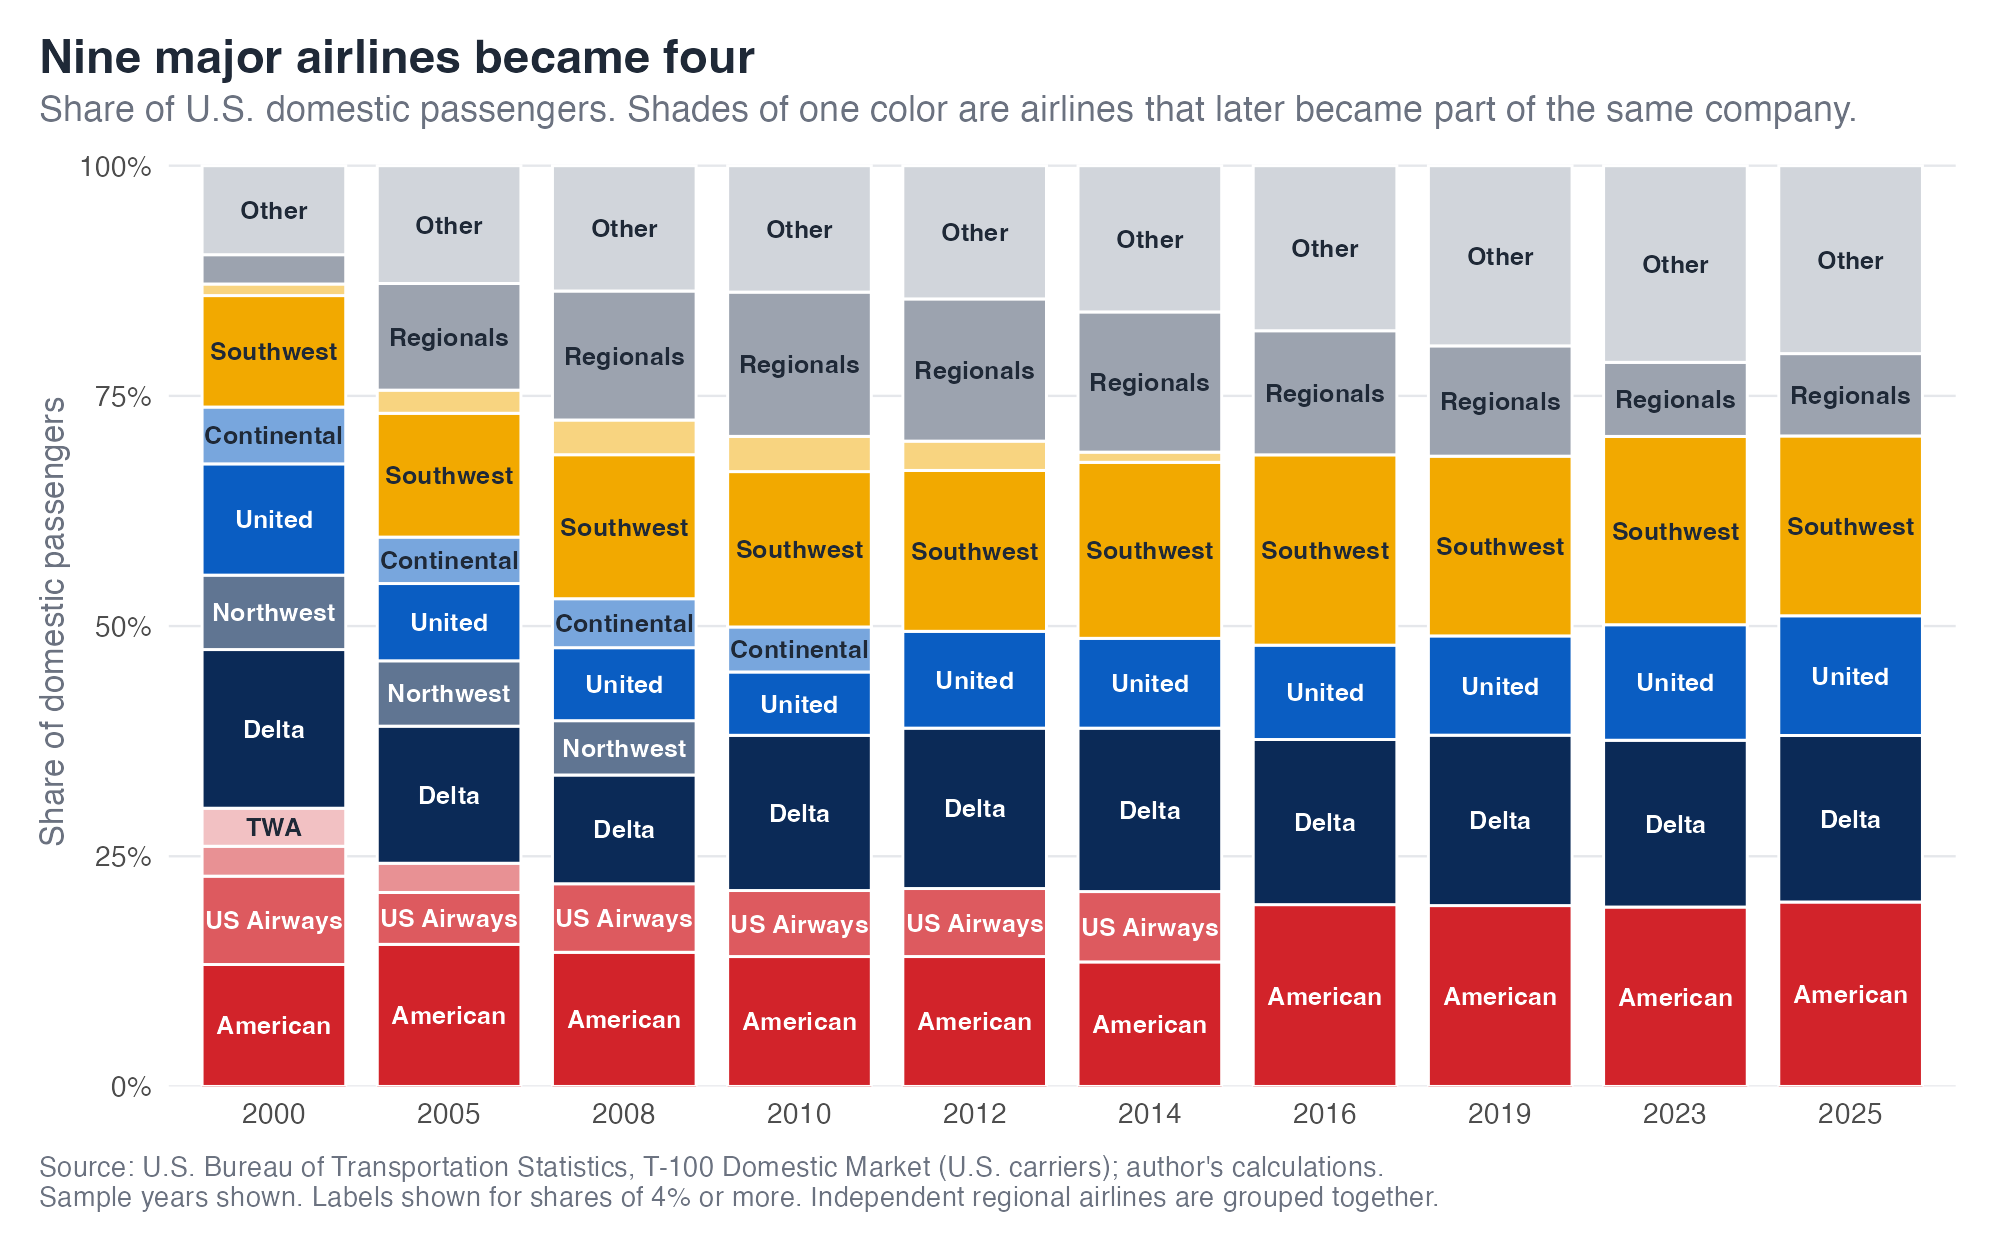
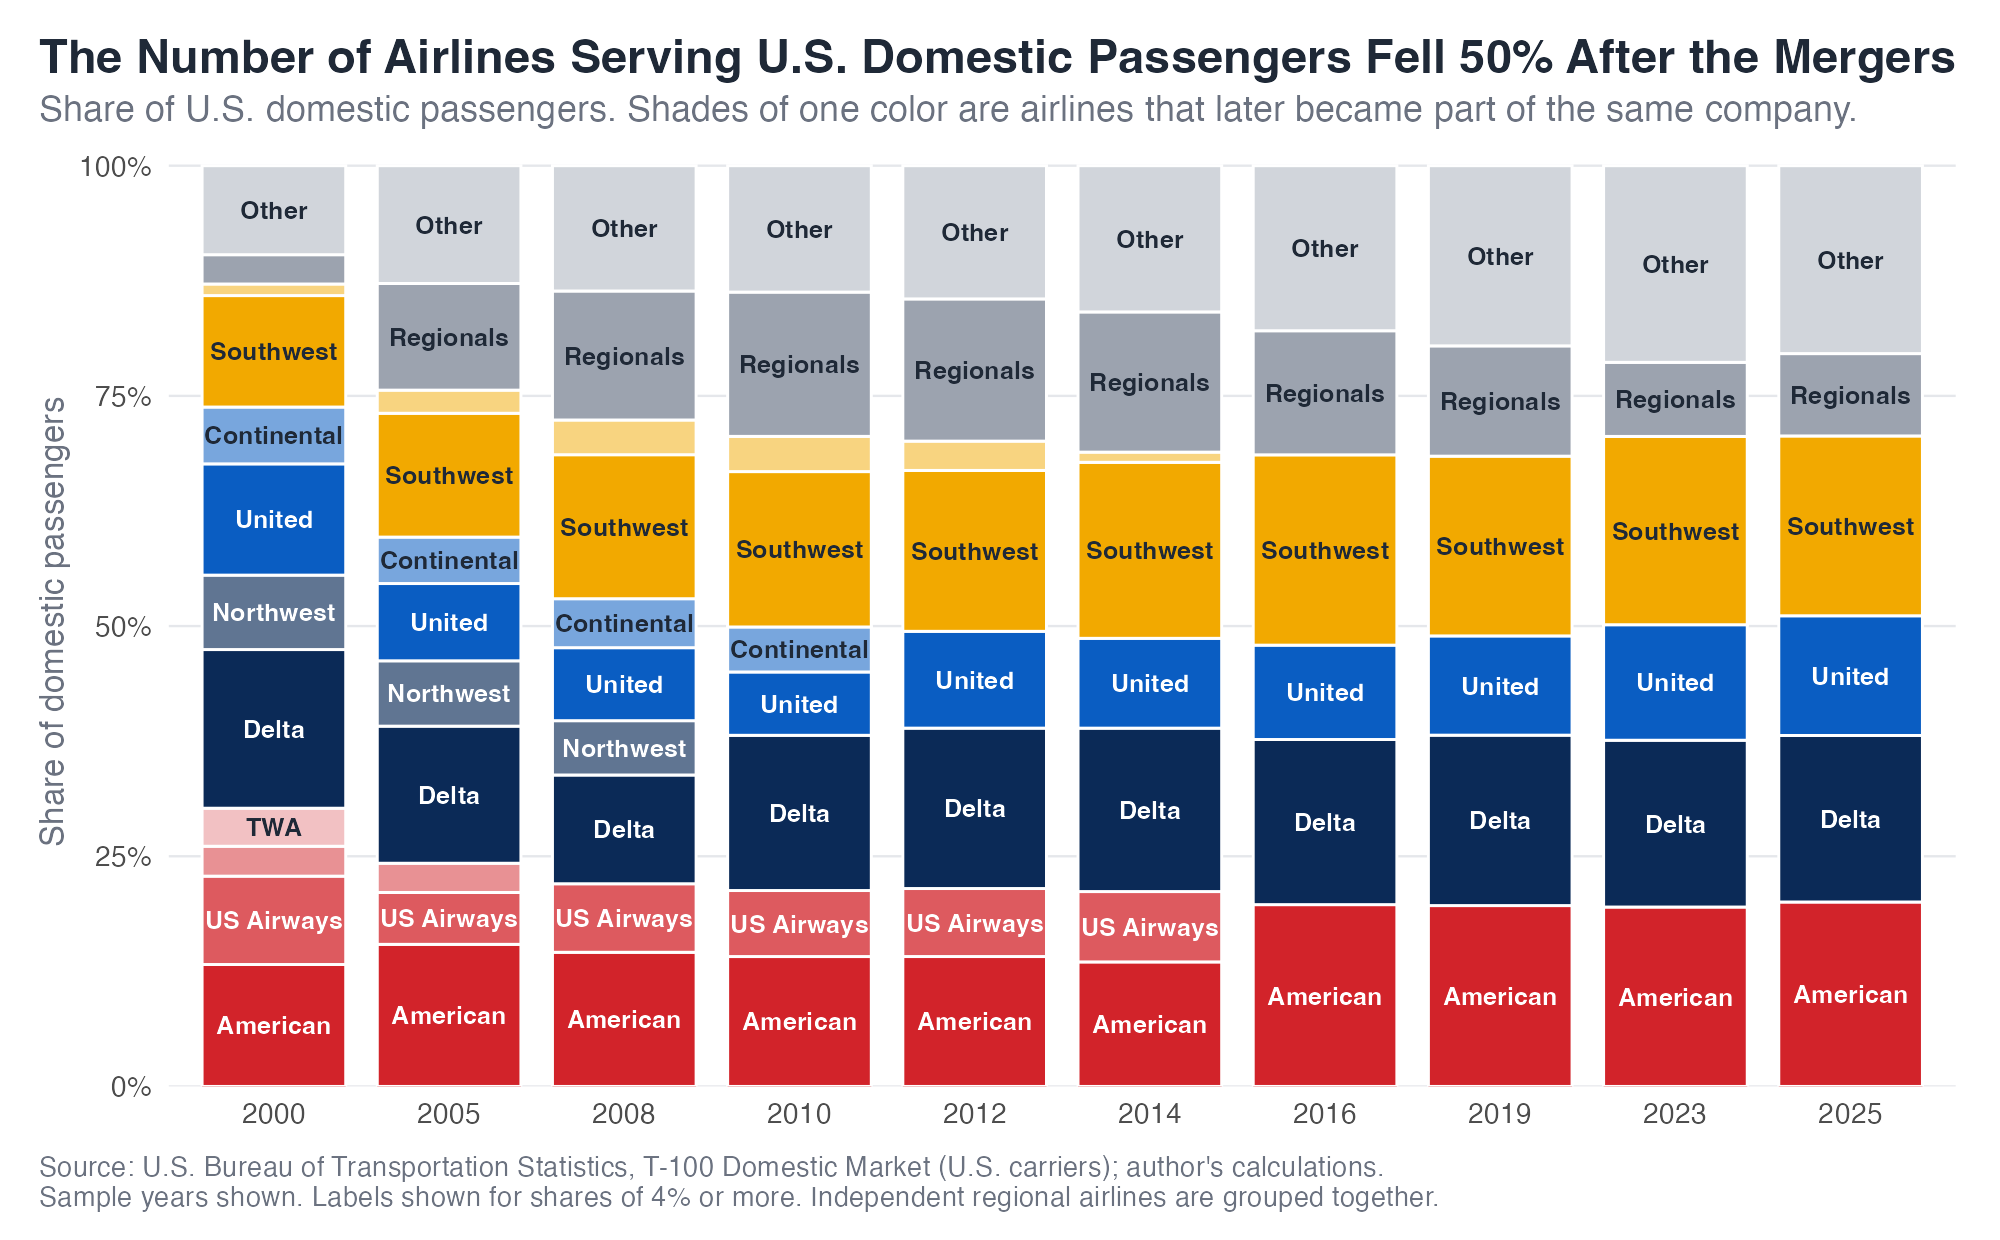
Proofreading and minor edits to match project details

Changed region(s): [[0.0, 0.0306, 0.992, 0.0613]]

diff --git a/docs/story.html b/docs/story.html
@@ -156,7 +156,7 @@ ul.task-list li input[type="checkbox"] {
 
 <p>Most of us only critique the U.S. aviation industry while at the airport. We notice how every single gate is branded with just one airline and the dearth of air carrier options at airports. Often, we feel that fares are too high relative to the quality of service provided. In the United States, both the authorities and the populace have shown apathy towards support for what can prevent such situations: competition. When several airlines fight for the same passengers, they have an incentive to cut fares, add flights, and maintain a standard of customer service. Conversely, when there are fewer players who dominate, they gain greater influence over price setting.</p>
 <p>Between 2008 and 2013, the three biggest mergers in modern U.S. aviation history were finalized: Delta with Northwest, United with Continental, and American with U.S. Airways.<a href="#fn1" class="footnote-ref" id="fnref1" role="doc-noteref"><sup>1</sup></a> Each merger removed a competitor from the market. In this analysis, I will investigate whether these mergers led to a dangerous level of concentration in the airline industry, as defined by conventional economic indices.</p>
-<p>I used public data from the U.S. Bureau of Transportation Statistics about the U.S. domestic air passenger market for ten sample years between 2000 and 2025.</p>
+<p>To conduct my analysis, I used public data from the U.S. Bureau of Transportation Statistics about the U.S. domestic air passenger market for ten sample years between 2000 and 2025. Firstly, examining market shares:</p>
 <div id="fig-share" class="quarto-float quarto-figure quarto-figure-center anchored" alt="Stacked bars of airline shares of U.S. passengers, 2000 to 2025">
 <figure class="quarto-float quarto-float-fig figure">
 <div aria-describedby="fig-share-caption-0ceaefa1-69ba-4598-a22c-09a6ac19f8ca">
@@ -184,7 +184,7 @@ Figure&nbsp;2
 </div>
 <p>Looking at the airline industry, <a href="#fig-hhi" class="quarto-xref">Figure&nbsp;2</a> shows the national score barely moving for the first 8 years. It sits near 1,000 in the year 2000, dips slightly in 2005, and is still around 1,010 in 2008. The dashed lines mark the three mergers and the line bends upwards after the first such line. By 2010, the index sat around 1,180, and by 2014 after the American-US Airways merger, it climbed to 1,290. It increased further to 1,480 in 2016. This is nearly 50% above where it started.</p>
 <p>After that, the line goes flat. Between 2019 and 2025, it held at roughly 1,420 to 1,440, though it was still substantially higher than in 2000. So, while the airline industry did not cross the 1,500-index threshold to be classified as moderately concentrated, the mergers themselves raised the index by roughly 450 points, indicating the need for scrutiny.</p>
-<p>Federal regulators such as the Department of Justice (DOJ) pushed back only minimally in the case of Delta-Northwest, stating that the pair had little direct route overlap; so, the concentration would not lead to consumer harm. In the case of United-Continental, United was required to hand over 36 airport slots to Southwest to address competitive concerns.<a href="#fn6" class="footnote-ref" id="fnref6" role="doc-noteref"><sup>6</sup></a> However, the American-US Airways merger faced heavy scrutiny from the DOJ. The eventual result was a settlement where the merger was allowed to go through only after American agreed to airport gate and slot divestitures to low-cost carriers.<a href="#fn7" class="footnote-ref" id="fnref7" role="doc-noteref"><sup>7</sup></a></p>
+<p>So, was there a governmental inquiry? Federal regulators such as the Department of Justice (DOJ) pushed back only minimally in the case of Delta-Northwest, stating that the pair had little direct route overlap; so, the concentration would not lead to consumer harm. In the case of United-Continental, United was required to hand over 36 airport slots to Southwest to address competitive concerns.<a href="#fn6" class="footnote-ref" id="fnref6" role="doc-noteref"><sup>6</sup></a> However, the American-US Airways merger faced heavy scrutiny from the DOJ. The eventual result was a settlement where the merger was allowed to go through only after American agreed to airport gate and slot divestitures to low-cost carriers.<a href="#fn7" class="footnote-ref" id="fnref7" role="doc-noteref"><sup>7</sup></a></p>
 </section>
 <section id="trouble-at-the-terminal" class="level2">
 <h2 class="anchored" data-anchor-id="trouble-at-the-terminal">Trouble at the Terminal</h2>
@@ -222,12 +222,13 @@ Figure&nbsp;5: Bonus graphic: AI-assisted visualization. The same 99 airports fo
 </figcaption>
 </figure>
 </div>
+<p>If you wish to follow which of the 99 initial airports with over 500,000 boardings recovered and which ones worsened, you can do so through this AI-assisted graphic. This will show the evolution of market concentration at the airports, allowing you to check how the mergers affected them and if they recovered.</p>
 </section>
 <section id="mapping-the-concentration" class="level2">
 <h2 class="anchored" data-anchor-id="mapping-the-concentration">Mapping the Concentration</h2>
 <iframe src="figures/04_airport_map_interactive.html" width="100%" height="680" style="border:0;" title="Map of the largest airline's share of passengers at U.S. airports, by year"></iframe>
-<p>On this map, each circle represents an airport. Its size grows with the number of passengers that board aircraft there annually. The gradient shows the concentration at these airports by tracking the share carried by the largest airline. Purple denotes about 20% while bright yellow depicts 100%. Adjusting the slider or pressing play shows the evolution of concentration over the years.</p>
-<p>In 2000, many of the biggest hub airports have a yellow tint. Some examples include Atlanta (Delta, 73%), Minneapolis (Northwest, 72%), St.&nbsp;Louis (TWA, 74%), Pittsburgh (US Airways, 86%), and Cincinnati (Delta, 95%). Adjusting the time of analysis, the bright spots mostly remain bright. Hub concentration was already high before mergers, and it remained high after them.</p>
+<p>On this map, each circle represents an airport. Its size grows with the number of passengers that board aircraft there annually. The gradient shows the concentration at these airports by tracking the share carried by the largest airline. The darker the gray, the higher the dominance of a single airline. Adjusting the slider or pressing play shows the evolution of concentration over the years.</p>
+<p>In 2000, many of the biggest hub airports are colored in deep gray. Some examples include Atlanta (Delta, 73%), Minneapolis (Northwest, 72%), St.&nbsp;Louis (TWA, 74%), Pittsburgh (US Airways, 86%), and Cincinnati (Delta, 95%). Adjusting the time of analysis, the richly-colored spots mostly remain so. Hub concentration was already high before mergers, and it remained high after them.</p>
 </section>
 <section id="big-airport-more-competition" class="level2">
 <h2 class="anchored" data-anchor-id="big-airport-more-competition">Big Airport = More Competition?</h2>
@@ -238,7 +239,7 @@ Figure&nbsp;5: Bonus graphic: AI-assisted visualization. The same 99 airports fo
 <section id="check-your-boarding-pass" class="level2">
 <h2 class="anchored" data-anchor-id="check-your-boarding-pass">Check Your Boarding Pass</h2>
 <iframe src="figures/06_hub_explorer_interactive.html" width="100%" height="760" style="border:0;" title="Stacked area chart of airline shares at a chosen airport"></iframe>
-<p>By this point, I am sure you are curious about how your airport has done over time. Using the menu, you can select one of the thirty busiest airports in the United States and see which airline (if any) dominated it, and how that changed over time.</p>
+<p>By this point, I am sure you are curious about how your airport has done over time. Using the menu, you can select one of the twenty-two busiest airports in the United States and see which airline (if any) dominated it, and how that changed over time.</p>
 </section>
 <section id="final-approach" class="level2">
 <h2 class="anchored" data-anchor-id="final-approach">Final Approach</h2>

diff --git a/docs/appendix.html b/docs/appendix.html
@@ -123,8 +123,8 @@ ul.task-list li input[type="checkbox"] {
    
   <ul>
   <li><a href="#a.-data-sources" id="toc-a.-data-sources" class="nav-link active" data-scroll-target="#a.-data-sources">A. Data Sources</a></li>
-  <li><a href="#b.-group-contributions" id="toc-b.-group-contributions" class="nav-link" data-scroll-target="#b.-group-contributions">B. Group Contributions</a></li>
-  <li><a href="#c.-ai-use-statement" id="toc-c.-ai-use-statement" class="nav-link" data-scroll-target="#c.-ai-use-statement">C. AI-Use Statement</a></li>
+  <li><a href="#b.-ai-use-statement" id="toc-b.-ai-use-statement" class="nav-link" data-scroll-target="#b.-ai-use-statement">B. AI-Use Statement</a></li>
+  <li><a href="#c.-group-contributions" id="toc-c.-group-contributions" class="nav-link" data-scroll-target="#c.-group-contributions">C. Group Contributions</a></li>
   </ul>
 </nav>
     </div>
@@ -166,13 +166,13 @@ ul.task-list li input[type="checkbox"] {
 <p><strong>Sample years.</strong> I used ten sample years rather than every year. I left out 2020 to 2022 because of the COVID-19 pandemic.</p>
 <p><strong>Calculations.</strong> Market shares are each airline’s passengers divided by total passengers. HHI is the sum of squared market shares, with shares expressed as percentages. All calculations are my own.</p>
 </section>
-<section id="b.-group-contributions" class="level2">
-<h2 class="anchored" data-anchor-id="b.-group-contributions">B. Group Contributions</h2>
-<p>This project was completed individually.</p>
+<section id="b.-ai-use-statement" class="level2">
+<h2 class="anchored" data-anchor-id="b.-ai-use-statement">B. AI-Use Statement</h2>
+<p>AI was used to proofread the prose and troubleshoot bugs on Visual Studio code. It was also used to generate the scripts to pull large data from the internet. For the AI-assisted D3-graphic, I used AI to ideate and help me understand the code that I was using for the visual. I then used it to scrape my data and write the code for the AI-assisted graphic.It was an iterative process wherein Claude and I were in a feedback loop to improve the final product.</p>
 </section>
-<section id="c.-ai-use-statement" class="level2">
-<h2 class="anchored" data-anchor-id="c.-ai-use-statement">C. AI-Use Statement</h2>
-<p>AI was used to proofread the prose and troubleshoot bugs on Visual Studio code. It was also used to generate the scripts to pull large data from the internet. For the AI-assisted D3-graphic, I used AI to ideate and help me understand the code that I was using for the visual. I then used it to scrape my data and write the code for the AI-assisted graphic.</p>
+<section id="c.-group-contributions" class="level2">
+<h2 class="anchored" data-anchor-id="c.-group-contributions">C. Group Contributions</h2>
+<p>This project was completed individually.</p>
 
 
 </section>

diff --git a/scripts/aggregate_t100.py b/scripts/aggregate_t100.py
@@ -12,7 +12,7 @@ Reads every .csv, .csv.gz and .zip (one CSV inside) in the input folder, stacks 
 cleans them, and writes small summary CSVs that the Quarto pages read.
 Raw data never needs to be loaded when rendering the site.
 
-Cleaning rules (document these in the appendix):
+Cleaning rules:
   1. Keep scheduled passenger service only (CLASS == "F").
   2. Drop rows with zero passengers.
   3. Drop rows where origin == destination.
